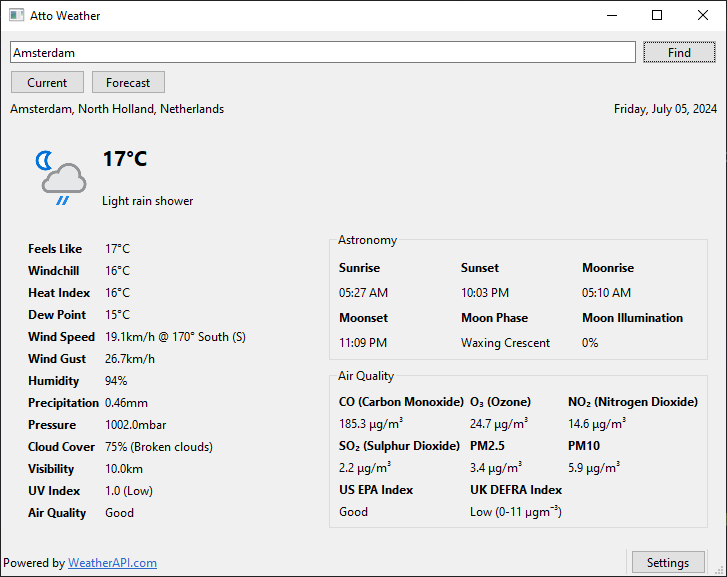
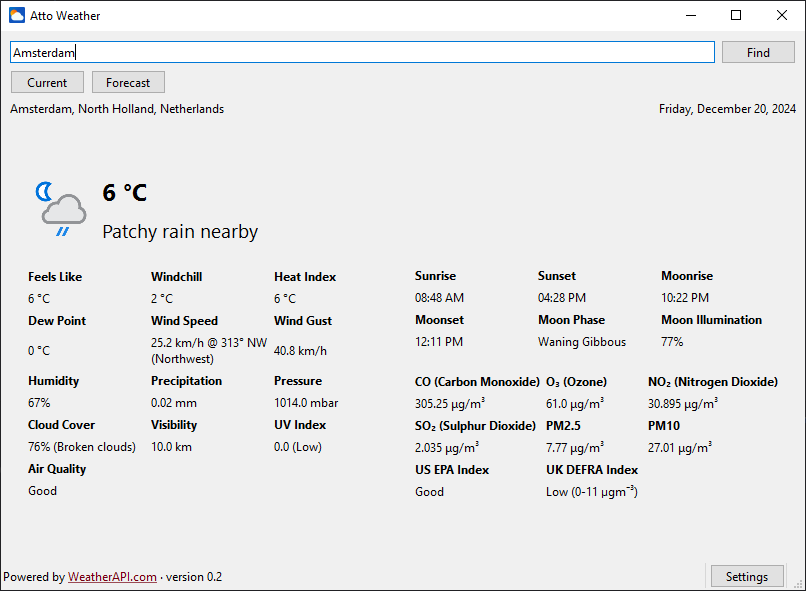
feat: 0.2.0

diff --git a/src/atto_weather/_version.py b/src/atto_weather/_version.py
@@ -1,1 +1,1 @@
-__version__ = "0.1.1"
+__version__ = "0.2.0"

diff --git a/README.md b/README.md
@@ -7,34 +7,33 @@ A really simple weather frontend.
 ## Features
 
 - Current weather information from dozens of locations
-- 3-day weather forecast with 24-hour details
-- Air quality & astronomy details
+- 3-day forecast with 24-hour weather data
+- Air quality and astronomy details
 
 *Weather data and icons courtesy of [WeatherAPI]*
 
-## Building
+## Installation
 
-No executable builds of Atto Weather are currently available.
+A Windows build for Atto Weather is available in [Releases](https://github.com/aescarias/atto-weather/releases).
 
-Clone this repository.
+To install Atto Weather from source, you will need a working copy of Python 3.9 or later.
+
+Clone the repository and create a virtual environment.
 
 ```sh
+# Clone the repository
 git clone https://github.com/aescarias/atto-weather
 cd atto-weather
+
+# Create and activate a virtual environment 
+# (use the appropriate 'python' command for your environment)
+python -m venv .venv
+
+source .venv/bin/activate # run this on Unix likes
+.venv/Scripts/activate # run this on Windows
 ```
 
-Create a virtual environment (Python 3.9 or later).
-
-```sh
-python -m venv .venv --prompt atto # make sure you use the right version!
-
-# then
-source .venv/bin/activate # on Unix likes
-# or
-.venv/Scripts/activate # on Windows
-```
-
-Once inside, install the required dependencies and run the application.
+Once activated, install the required dependencies and run the application.
 
 ```sh
 python -m pip install -e .
@@ -43,6 +42,6 @@ python -m atto_weather
 
 ## Setup
 
-Atto Weather uses [WeatherAPI] to provide its weather data. To use this service, you must acquire an API key. To do so, create an account at [WeatherAPI] then copy the "API Key" from the Dashboard. Enter this key into the prompt you see when first opening the app.
+Atto Weather uses [WeatherAPI] for its weather data. To use this service, you must acquire an API key. You can do this by creating an account and copying the "API key" from the Dashboard into the prompt you see when first opening the application.
 
 [WeatherAPI]: https://weatherapi.com
